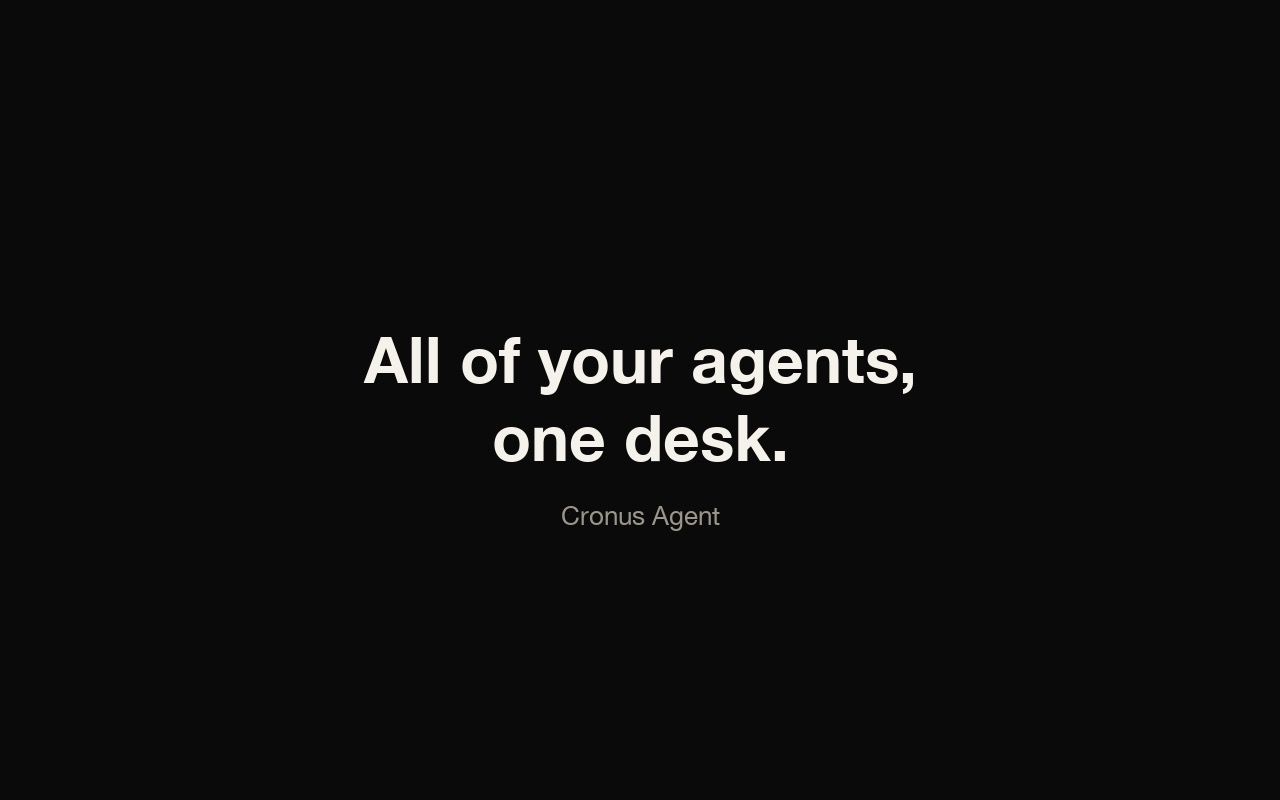
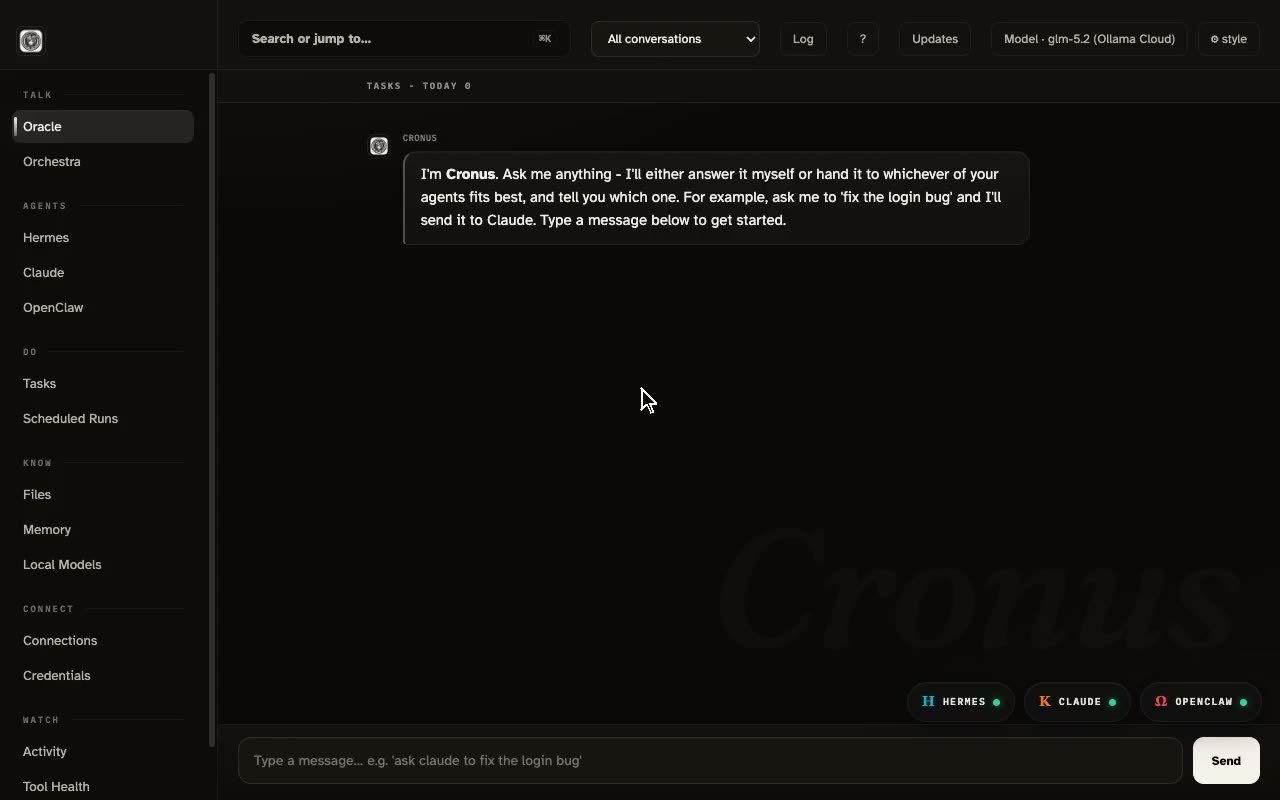
Homepage demo re-narrated with the af_heart voice (was robotic macOS TTS)
New 50s cut rendered through guide-studio: routing, agent windows,
Foresight, and the ownership closer. Same filename, poster regenerated.

diff --git a/index.html b/index.html
@@ -253,7 +253,7 @@
 <section id="video">
   <div class="wrap">
     <h2>Watch the demo</h2>
-    <p class="sub">Forty-two seconds, with sound. What Cronus is and how it feels to use.</p>
+    <p class="sub">Fifty seconds, with sound. What Cronus is and how it feels to use.</p>
     <figure class="shot" style="max-width:860px;margin:0 auto">
       <video controls preload="metadata" poster="demo-poster.jpg" style="display:block;width:100%;height:auto">
         <source src="demo.mp4" type="video/mp4">